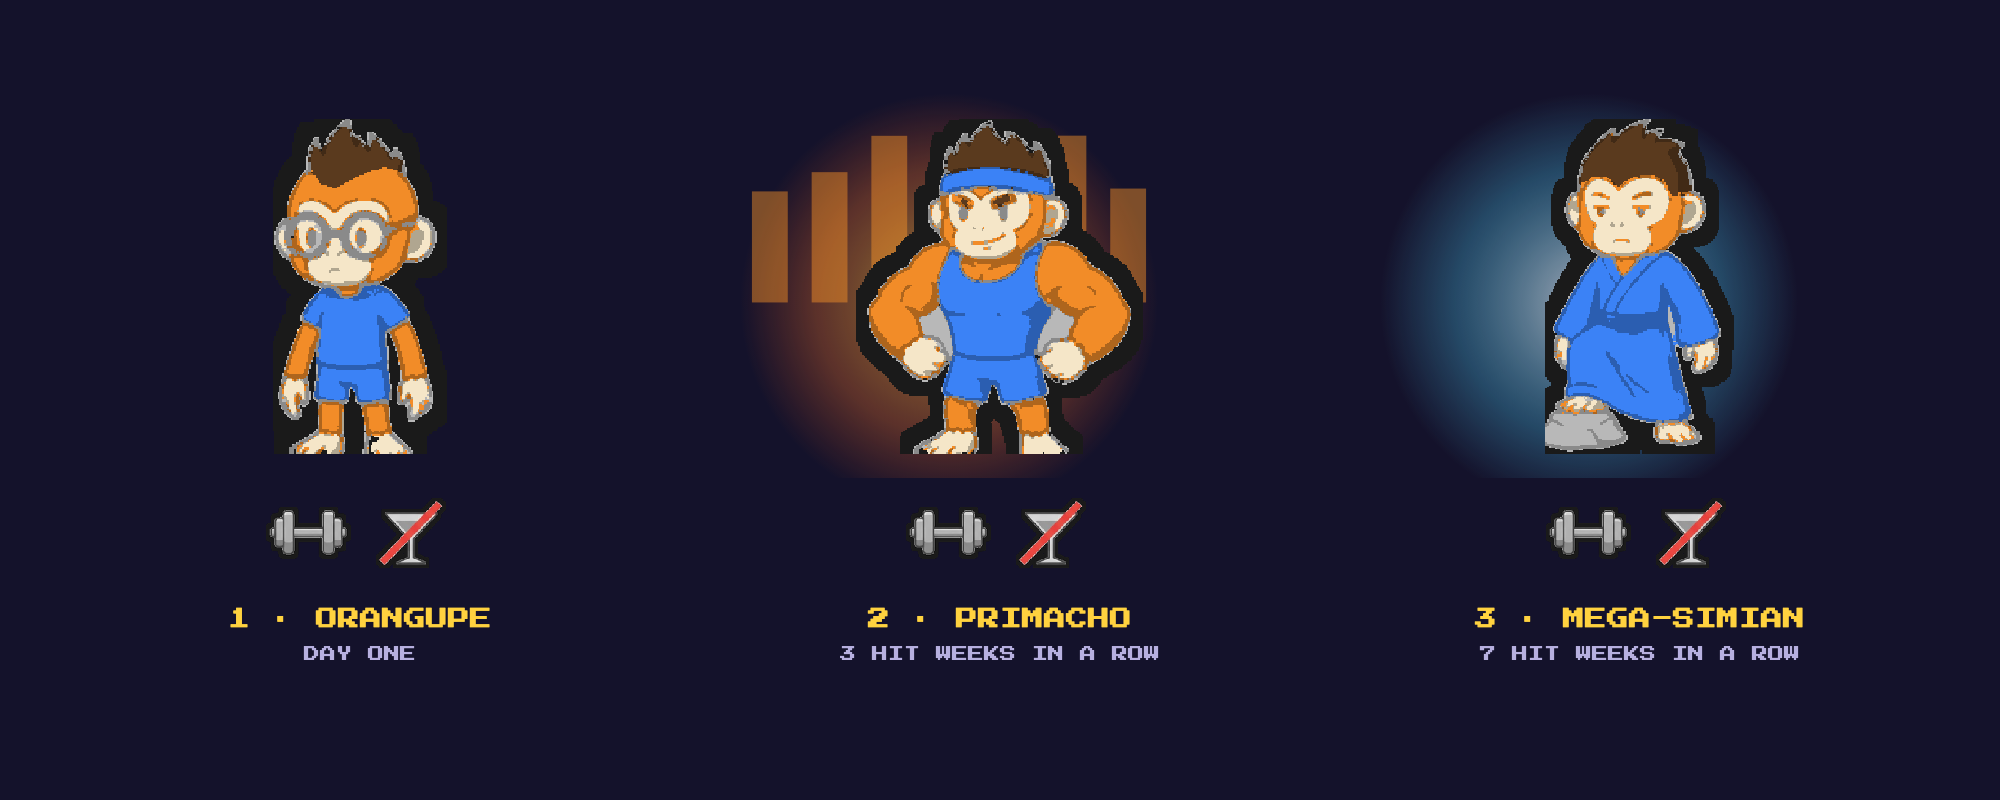
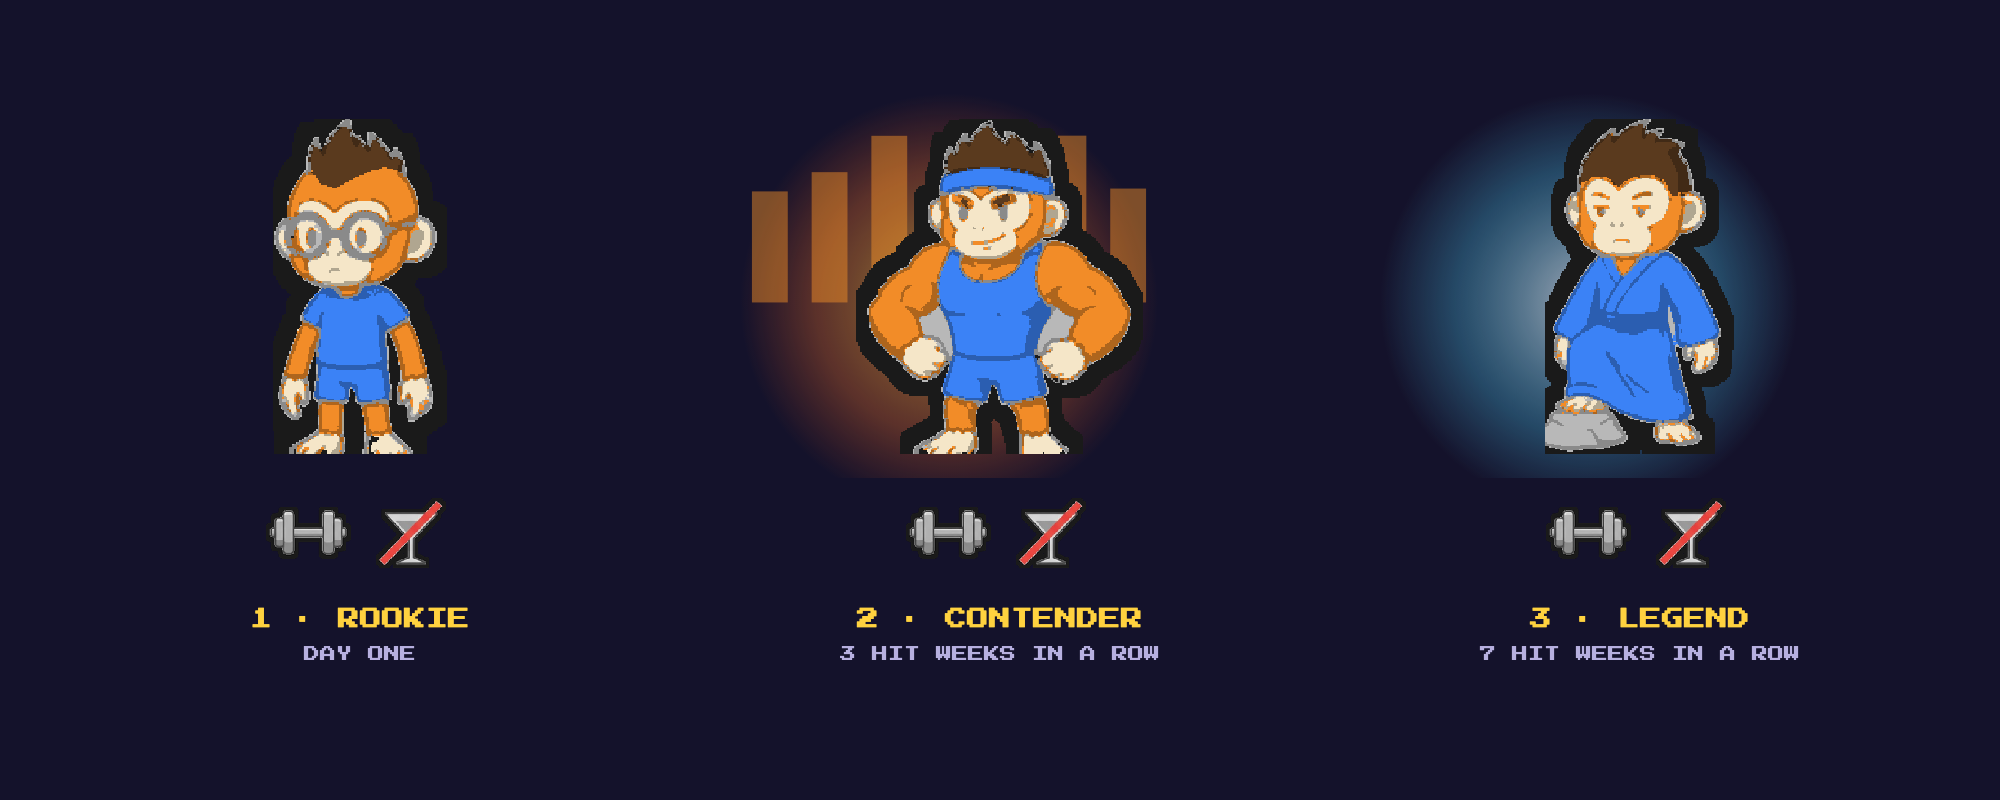
Stages are ROOKIE / CONTENDER / LEGEND
Replaces ORANGUPE / PRIMACHO / MEGA-SIMIAN in the rules, renderer,
pages, tests, README, art spec and the product-page evolution image.
Neutral names that describe the player's standing rather than an ape.

Changed region(s): [[0.744, 0.75, 0.899, 0.7812], [0.434, 0.75, 0.589, 0.7812], [0.124, 0.75, 0.248, 0.7812]]

diff --git a/docs/index.html b/docs/index.html
@@ -142,11 +142,11 @@
 
   <h2>▶ PLAY (BUILD 2)</h2>
   <div class="panel">
-    <p><strong>The game loop is live, Pokémon style.</strong> Everyone starts at 50 LP (Lock-in Power). Lock in one or more goals: workouts per week, 10,000-step days, reading days, dry days. Check in as you go. Hit every goal in a week, +10 LP. Miss any, -15 LP. Three hit weeks in a row evolves your Orangupe into a Primacho, seven into a Mega-Simian. Break the streak or hit 0 LP and you devolve. Highest LP on day 90 wins. Connect a Whoop and your workouts log themselves every night at 11:59 PM.</p>
+    <p><strong>The game loop is live, Pokémon style.</strong> Everyone starts at 50 LP (Lock-in Power). Lock in one or more goals: workouts per week, 10,000-step days, reading days, dry days. Check in as you go. Hit every goal in a week, +10 LP. Miss any, -15 LP. Three hit weeks in a row evolves your Rookie into a Contender, seven into a Legend. Break the streak or hit 0 LP and you devolve. Highest LP on day 90 wins. Connect a Whoop and your workouts log themselves every night at 11:59 PM.</p>
     <p style="margin-bottom:16px;"><a class="chip" style="text-decoration:none;color:var(--gold);" href="game.html">▶ START OR JOIN A CHALLENGE</a> <a class="chip" style="text-decoration:none;color:var(--gold);" href="character.html">▶ BUILD YOUR CHARACTER</a></p>
     <img class="shot" src="images/characters.png" alt="Seven 8-bit characters made with the character builder: different hair, skin tones, jackets, hoodies, tees, pants, shorts and skirts" style="min-height:0;image-rendering:pixelated;">
-    <img class="shot" src="images/evolution.png" alt="The character at three evolution stages: Orangupe with glasses, Primacho flexing in a flame aura, Mega-Simian in a robe with a spirit glow" style="min-height:0;image-rendering:pixelated;margin-top:12px;">
-    <p style="margin-top:12px;">Onboarding is four steps. Build your character first: everyone shares one neutral body per stage (Orangupe, Primacho, Mega-Simian), and you choose hair style, body, hair and outfit colours. Then create or join a group; the system hands the creator an invite code. Then pick your goals, each with its own weekly target, and lock them in with your piece beside them. Finally choose how progress gets recorded: connect a Whoop, Apple Health (coming soon) or tap it in by hand. As your streak grows your character evolves through the three stages, with a flame aura at stage 2 and a spirit glow at stage 3, and small badges under it show the goals you locked in.</p>
+    <img class="shot" src="images/evolution.png" alt="The character at three evolution stages: Rookie with glasses, Contender flexing in a flame aura, Legend in a robe with a spirit glow" style="min-height:0;image-rendering:pixelated;margin-top:12px;">
+    <p style="margin-top:12px;">Onboarding is four steps. Build your character first: everyone shares one neutral body per stage (Rookie, Contender, Legend), and you choose hair style, body, hair and outfit colours. Then create or join a group; the system hands the creator an invite code. Then pick your goals, each with its own weekly target, and lock them in with your piece beside them. Finally choose how progress gets recorded: connect a Whoop, Apple Health (coming soon) or tap it in by hand. As your streak grows your character evolves through the three stages, with a flame aura at stage 2 and a spirit glow at stage 3, and small badges under it show the goals you locked in.</p>
     <p class="todo">TODO: add a screenshot of a real challenge once the group has a week of check-ins.</p>
   </div>
 
@@ -210,7 +210,7 @@
           <li>Hit weeks score the moment you hit the goal, not at week's end, for faster feedback.</li>
           <li>Replaced the race board with a Pokémon-style loop after playing the first version: LP as a health bar, evolution at 3 and 7 hit weeks in a row, devolve on a broken streak. One stat to protect reads better on a phone than 40 squares, and evolution gives streaks a visible payoff. Starting LP 50 and faint-reset 25 are first guesses to tune with real players.</li>
           <li>Replaced the pixelated-photo avatar with a hand-drawn sprite builder after seeing the reference style I actually wanted: flat colours, full body, 15×24 grid. A photo now only suggests colours. Still $0 and browser-only; an AI redraw remains a later experiment.</li>
-          <li>Then replaced the sprite builder with the monkey evolution line for onboarding friends: one generated pixel-art body per stage (Orangupe, Primacho, Mega-Simian), recoloured in the browser by hunting for three reference hues so fur, hair and outfit stay customisable without a file per combination. Hair style is the one trait that needs its own image. Goal badges under the character replaced in-hand props because a player can have several goals. Spec for the art in <a href="MONKEYS.md">docs/MONKEYS.md</a>; the final sprites were generated in Flora from that spec and cleaned with <code>scripts/monkey-prep.py</code>.</li>
+          <li>Then replaced the sprite builder with the monkey evolution line for onboarding friends: one generated pixel-art body per stage (Rookie, Contender, Legend), recoloured in the browser by hunting for three reference hues so fur, hair and outfit stay customisable without a file per combination. Hair style is the one trait that needs its own image. Goal badges under the character replaced in-hand props because a player can have several goals. Spec for the art in <a href="MONKEYS.md">docs/MONKEYS.md</a>; the final sprites were generated in Flora from that spec and cleaned with <code>scripts/monkey-prep.py</code>.</li>
           <li>Whoop sync shipped as a nightly GitHub Action at 11:59 PM Eastern: pulls the last 3 days of workouts of 30+ minutes (walks excluded) and logs them with <code>source = 'whoop'</code>, deduped by Whoop id. Tokens live in a service-role-only table, never in the repo. Setup in <a href="WHOOP.md">docs/WHOOP.md</a>.</li>
           <li>PostHog installed on every page: pageviews and autocapture, plus named events for the moments that matter (character created, group created or joined, goal locked, tracking chosen, check-in logged or undone, week hit, evolved, invite copied). Identified by the anonymous Supabase id only; session recording off. Config in <code>docs/posthog-config.js</code>.</li>
         </ul>

diff --git a/docs/game.html b/docs/game.html
@@ -163,7 +163,7 @@
   <section data-view="character" hidden>
     <div class="step pixel">STEP 1 OF 4 · <span>CHARACTER</span></div>
     <h1>BUILD YOUR CHARACTER</h1>
-    <p class="muted" id="charIntro">Everyone starts as an ORANGUPE. Choose your hair and colours; the body is the same for all. Three hit weeks in a row evolves you into a PRIMACHO, seven into a MEGA-SIMIAN.</p>
+    <p class="muted" id="charIntro">Everyone starts as a ROOKIE. Choose your hair and colours; the body is the same for all. Three hit weeks in a row evolves you into a CONTENDER, seven into a LEGEND.</p>
     <div class="panel">
       <label class="f" style="max-width:360px"><span class="pixel">YOUR NAME</span><input type="text" id="pName" maxlength="16" placeholder="Sam"></label>
       <div id="builder"></div>
@@ -186,7 +186,7 @@
           <canvas class="piece me" id="piecePreview"></canvas>
           <div>
             <div class="pixel" style="font-size:14px;color:var(--gold);margin-bottom:6px" id="pieceName"></div>
-            <p class="muted" style="font-size:13px">Stage 1, ORANGUPE. The badges below it are the goals you pick here. Three hit weeks in a row and it evolves.</p>
+            <p class="muted" style="font-size:13px">Stage 1, ROOKIE. The badges below it are the goals you pick here. Three hit weeks in a row and it evolves.</p>
             <button class="btn alt" id="editCharBtn" type="button">◀ CHANGE CHARACTER</button>
           </div>
         </div>
@@ -195,7 +195,7 @@
         <h2>▶ PICK YOUR GOALS</h2>
         <div class="goals" id="goalCards"></div>
         <p class="muted" id="goalPreview"></p>
-        <p class="muted" style="font-size:13px">Rules: everyone starts at 50 LP. A week is hit only when every goal is met: +10 LP. Miss any, -15 LP. Three hit weeks in a row evolves you into a PRIMACHO, seven into a MEGA-SIMIAN. Break a streak or hit 0 LP and you devolve. Highest LP after 13 weeks wins.</p>
+        <p class="muted" style="font-size:13px">Rules: everyone starts at 50 LP. A week is hit only when every goal is met: +10 LP. Miss any, -15 LP. Three hit weeks in a row evolves you into a CONTENDER, seven into a LEGEND. Break a streak or hit 0 LP and you devolve. Highest LP after 13 weeks wins.</p>
         <button class="btn green" id="lockBtn" type="button">LOCK IT IN</button>
         <div class="msg" id="lockMsg"></div>
       </div>

diff --git a/docs/character.html b/docs/character.html
@@ -40,7 +40,7 @@
       <a class="btn" id="download" download="my-character.png" href="#">DOWNLOAD PNG</a>
       <a class="btn" style="background:var(--green)" href="game.html">USE IT IN THE GAME ▶</a>
     </div>
-    <p class="tag" style="margin:12px 0 0;font-size:13px">In the game you build your character first, then create or join a group and lock in goals. Three hit weeks in a row evolves an ORANGUPE into a PRIMACHO, seven into a MEGA-SIMIAN. Break the streak and it devolves.</p>
+    <p class="tag" style="margin:12px 0 0;font-size:13px">In the game you build your character first, then create or join a group and lock in goals. Three hit weeks in a row evolves a ROOKIE into a CONTENDER, seven into a LEGEND. Break the streak and it devolves.</p>
   </div>
   <footer>Build 2 · <a href="prototype.html">old photo pixelator</a> · <a href="https://github.com/building-with-ai-f26/sc12439-LockIn">source</a></footer>
 </div>

diff --git a/docs/game-rules.js b/docs/game-rules.js
@@ -36,7 +36,7 @@
     maxStage: 3
   };
 
-  var STAGES = ["ORANGUPE", "PRIMACHO", "MEGA-SIMIAN"];   // index = stage - 1; the monkey evolution line
+  var STAGES = ["ROOKIE", "CONTENDER", "LEGEND"];   // index = stage - 1; the evolution line
 
   // The four goal types a player can lock in. per_week means workouts per
   // week for fitness and days per week for everything else.

diff --git a/docs/monkey.js b/docs/monkey.js
@@ -21,7 +21,7 @@
   "use strict";
 
   var BASE = "images/monkeys/";
-  var STAGES = ["ORANGUPE", "PRIMACHO", "MEGA-SIMIAN"];
+  var STAGES = ["ROOKIE", "CONTENDER", "LEGEND"];
   var HAIRS = [
     { id: "spiky", label: "SPIKY" },
     { id: "shaggy", label: "SHAGGY" },

diff --git a/README.md b/README.md
@@ -10,11 +10,11 @@
 
 ## How the game works
 
-1. **Build your character.** Everyone shares the same body per stage. Choose a hair style and your body, hair and outfit colours. Stage 1 is an Orangupe; it evolves into a Primacho and then a Mega-Simian.
+1. **Build your character.** Everyone shares the same body per stage. Choose a hair style and your body, hair and outfit colours. Stage 1 is a Rookie; it evolves into a Contender and then a Legend.
 2. **Create or join a group** with an invite code or link.
 3. **Lock in your goals** for 90 days: workouts per week, 10,000-step days, reading days, dry days, in any combination, each with its own weekly target. They cannot be changed afterwards.
 4. **Choose how you track.** Connect a Whoop and the nightly sync logs workouts of 30+ minutes (walks excluded) for you; Apple Health is coming later; or tap it in by hand. Steps, reading and dry days are always tapped in, once per day.
-5. **Keep your LP up.** Everyone starts at 50 Lock-in Power. Hit every goal in a week, +10. Miss any, −15. Three hit weeks in a row evolves you to Primacho, seven to Mega-Simian. Break the streak or hit 0 LP and you devolve.
+5. **Keep your LP up.** Everyone starts at 50 Lock-in Power. Hit every goal in a week, +10. Miss any, −15. Three hit weeks in a row evolves you to Contender, seven to Legend. Break the streak or hit 0 LP and you devolve.
 6. **Highest LP on day 90 wins.** The leaderboard shows everyone's stage, LP and streak.
 7. **Several groups, one character.** Switch between your groups from the play screen or start another. Whoever created a group can rename it, move the start date before day one, remove a member or delete it.
 

diff --git a/docs/MONKEYS.md b/docs/MONKEYS.md
@@ -1,6 +1,6 @@
 # Monkey art: what the game expects in `docs/images/monkeys/`
 
-Everyone in Lock-In Party is a monkey with three evolution stages: **Orangupe** (stage 1, nerdy starter), **Primacho** (stage 2, fitness), **Mega-Simian** (stage 3, mystic). One neutral body per stage. Players customise hair style, fur colour, hair colour and outfit colour. Goal badges sit under the monkey, one per locked goal.
+Everyone in Lock-In Party is a monkey with three evolution stages: **Rookie** (stage 1, nerdy starter), **Contender** (stage 2, fitness), **Legend** (stage 3, mystic). One neutral body per stage. Players customise hair style, fur colour, hair colour and outfit colour. Goal badges sit under the monkey, one per locked goal.
 
 The art is generated (Flora or similar) and dropped in as PNGs. `docs/monkey.js` recolours fur, hair and outfit at draw time by hunting for three **reference hues**, so every generated file must use exactly these colours:
 
